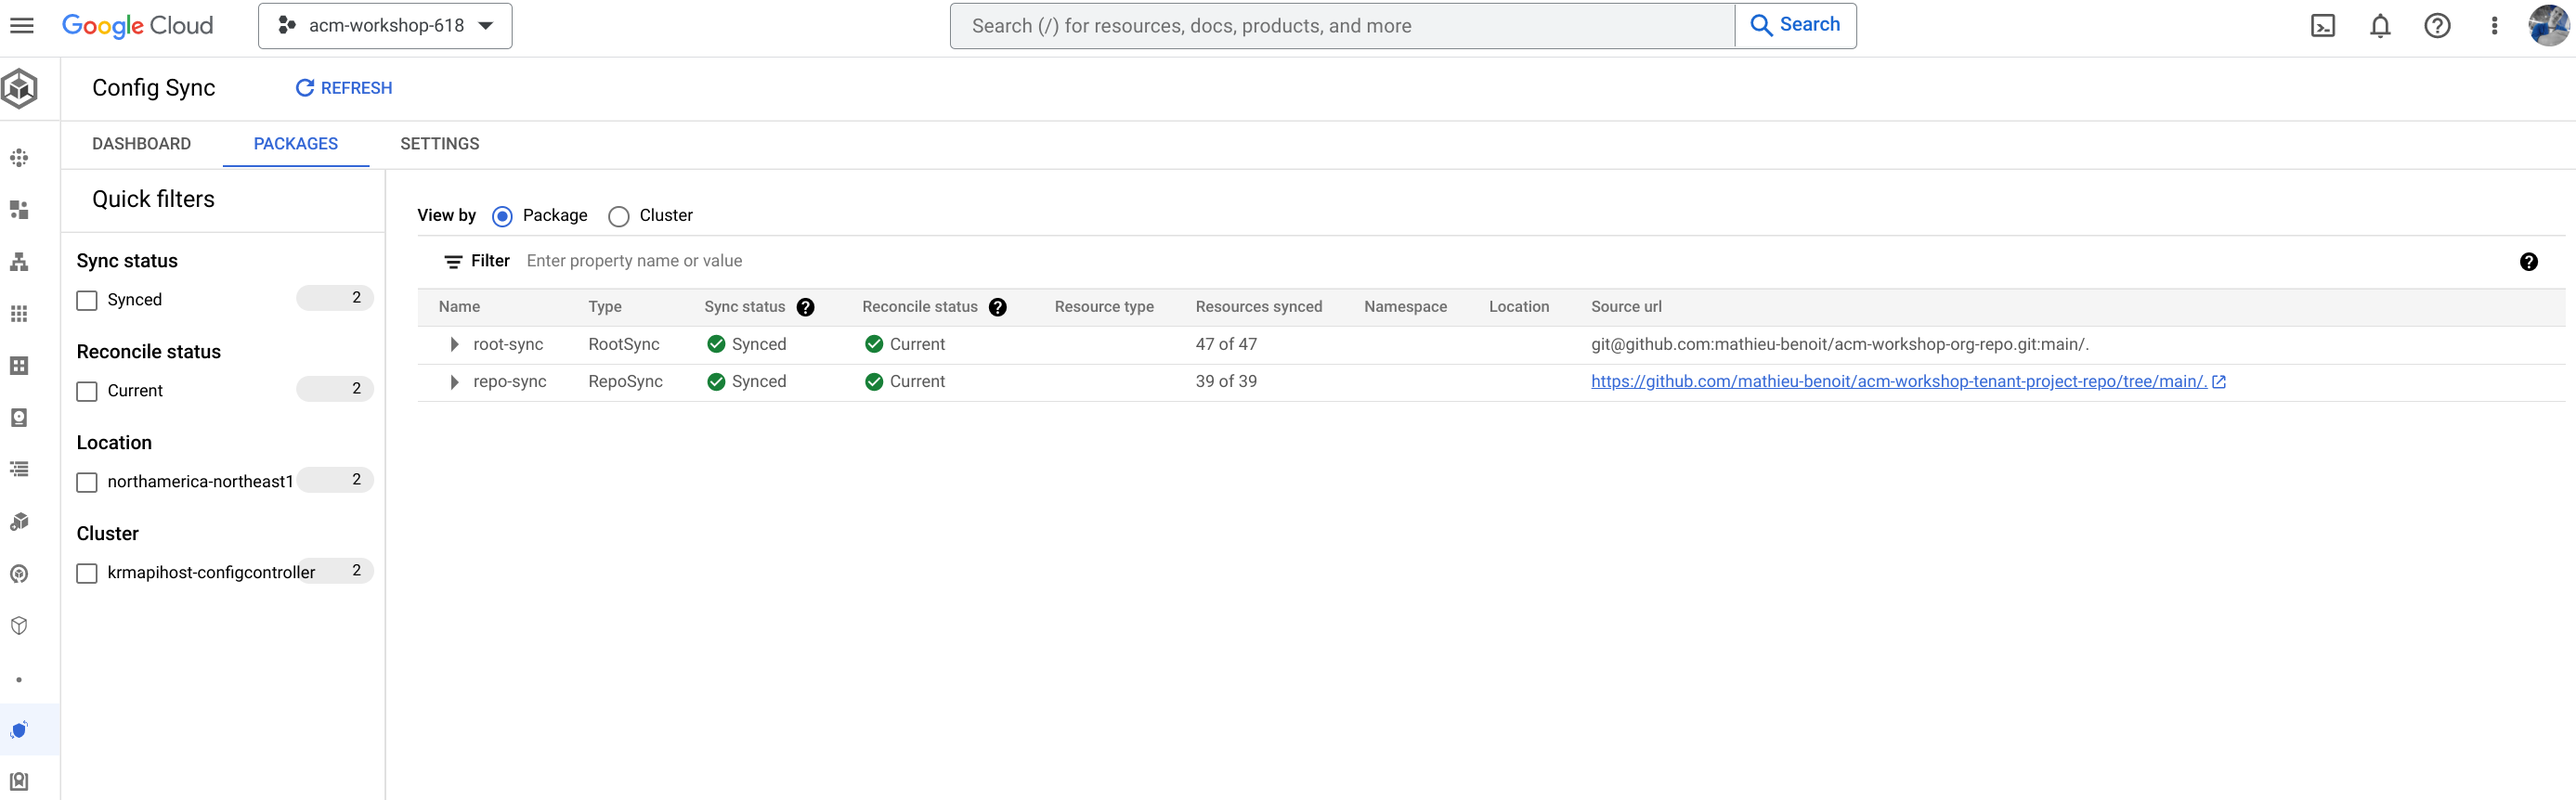
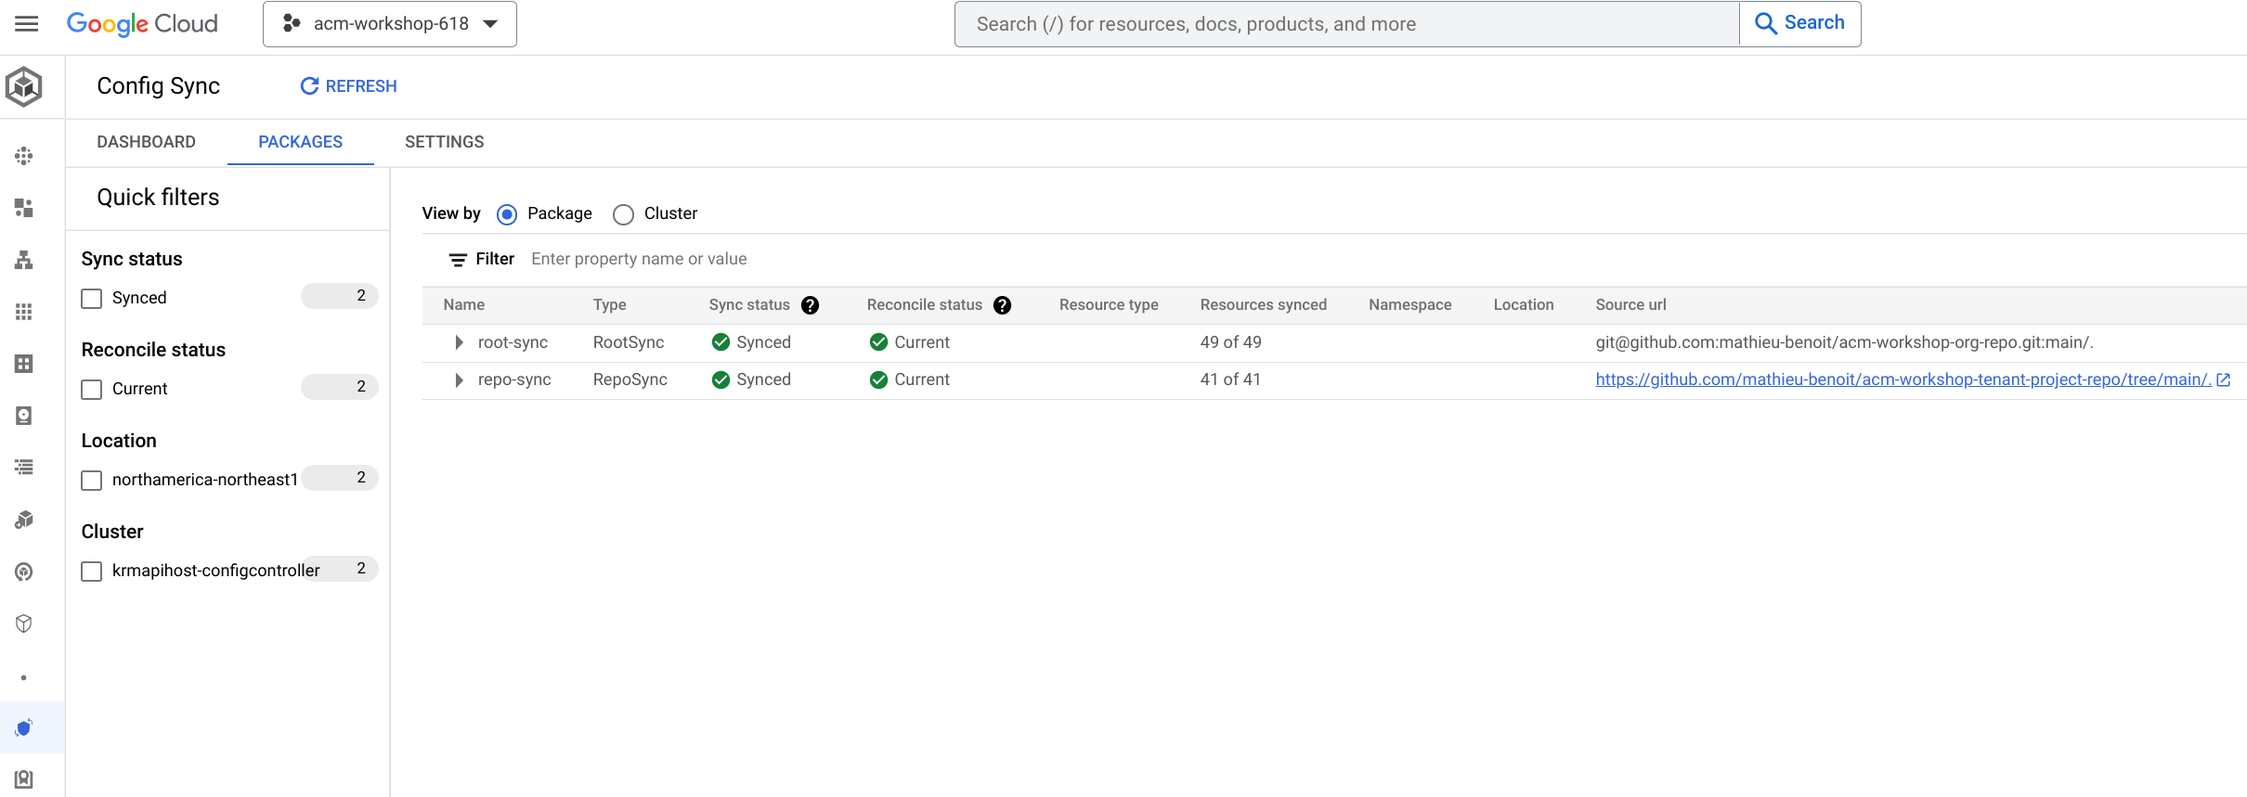
MonitoringNotificationChannel + MonitoringAlertPolicy

diff --git a/app/content/tenant-project/set-up-monitoring.md b/app/content/tenant-project/set-up-monitoring.md
@@ -1,0 +1,122 @@
+---
+title: "Set up Monitoring"
+weight: 5
+description: "Duration: 5 min | Persona: Platform Admin"
+tags: ["kcc", "monitoring", "platform-admin"]
+---
+![Platform Admin](/images/platform-admin.png)
+_{{< param description >}}_
+
+In this section, you will set up an monitoring notification channel with you email and a generic alert policy on URLs uptime checks for the Tenant project.
+
+Initialize variables:
+```Bash
+WORK_DIR=~/
+source ${WORK_DIR}acm-workshop-variables.sh
+```
+
+Define variables for this page:
+```Bash
+export NOTIFICATION_CHANNEL_EMAIL_ADDRESS=FIXME
+export NOTIFICATION_CHANNEL_NAME=monitoringnotificationchannel-email
+```
+{{% notice tip %}}
+Set your own email address for the `NOTIFICATION_CHANNEL_EMAIL_ADDRESS` variable, this will be used when defining the monitoring notification channel below.
+{{% /notice %}}
+
+## Define the monitoring notification channel with your email
+
+Define the [VPC](https://cloud.google.com/config-connector/docs/reference/resource-docs/monitoring/monitoringnotificationchannel):
+```Bash
+cat <<EOF > ${WORK_DIR}$TENANT_PROJECT_DIR_NAME/monitoring-notification-channel-email.yaml
+apiVersion: monitoring.cnrm.cloud.google.com/v1beta1
+kind: MonitoringNotificationChannel
+metadata:
+  annotations:
+    cnrm.cloud.google.com/project-id: ${TENANT_PROJECT_ID}
+  name: ${NOTIFICATION_CHANNEL_NAME}
+spec:
+  type: email
+  labels:
+    email_address: ${NOTIFICATION_CHANNEL_EMAIL_ADDRESS}
+  enabled: true
+EOF
+```
+
+## Define the Alert policy based on the uptime checks
+
+Define the [MonitoringAlertPolicy](https://cloud.google.com/config-connector/docs/reference/resource-docs/monitoring/monitoringalertpolicy):
+```Bash
+cat <<EOF > ${WORK_DIR}$TENANT_PROJECT_DIR_NAME/monitoring-alert-policy-uptime-checks.yaml
+apiVersion: monitoring.cnrm.cloud.google.com/v1beta1
+kind: MonitoringAlertPolicy
+metadata:
+  annotations:
+    cnrm.cloud.google.com/project-id: ${TENANT_PROJECT_ID}
+  name: monitoring-alert-policy-uptime-checks
+spec:
+  displayName: Failure of uptime checks
+  enabled: true
+  notificationChannels:
+    - name: ${NOTIFICATION_CHANNEL_NAME}
+  combiner: OR
+  conditions:
+  - displayName: Failure of uptime checks
+    conditionThreshold:
+      filter: metric.type="monitoring.googleapis.com/uptime_check/check_passed" AND resource.type="uptime_url"
+      aggregations:
+      - perSeriesAligner: ALIGN_NEXT_OLDER
+        alignmentPeriod: 1200s
+        crossSeriesReducer: REDUCE_COUNT_FALSE
+        groupByFields:
+        - resource.label.*
+      comparison: COMPARISON_GT
+      thresholdValue: 1
+      duration: 60s
+      trigger:
+        count: 1
+EOF
+```
+
+## Deploy Kubernetes manifests
+
+```Bash
+cd ${WORK_DIR}$TENANT_PROJECT_DIR_NAME/
+git add . && git commit -m "Monitoring features for Tenant project" && git push origin main
+```
+
+## Check deployments
+
+{{< mermaid >}}
+graph TD;
+  MonitoringAlertPolicy-.->Project
+  MonitoringNotificationChannel-.->Project
+  MonitoringAlertPolicy-->MonitoringNotificationChannel
+{{< /mermaid >}}
+
+List the Kubernetes resources managed by Config Sync in **Config Controller** for the **Tenant project configs** repository:
+{{< tabs groupId="cs-status-ui">}}
+{{% tab name="UI" %}}
+Run this command and click on this link:
+```Bash
+echo -e "https://console.cloud.google.com/kubernetes/config_management/packages?project=${HOST_PROJECT_ID}"
+```
+Wait until you see the `Sync status` column as `Synced` and the `Reconcile status` column as `Current`.
+{{% /tab %}}
+{{% tab name="gcloud" %}}
+Run this command:
+```Bash
+gcloud alpha anthos config sync repo describe \
+    --project $HOST_PROJECT_ID \
+    --managed-resources all \
+    --sync-name repo-sync \
+    --sync-namespace $TENANT_PROJECT_ID
+```
+Wait and re-run this command above until you see `"status": "SYNCED"`. All the `managed_resources` listed should have `STATUS: Current` too.
+{{% /tab %}}
+{{< /tabs >}}
+
+List the GitHub runs for the **Tenant project configs** repository:
+```Bash
+cd ${WORK_DIR}$TENANT_PROJECT_DIR_NAME && gh run list
+```

diff --git a/app/content/tenant-project/allow-monitoring.md b/app/content/tenant-project/allow-monitoring.md
@@ -7,7 +7,7 @@ tags: ["kcc", "monitoring", "org-admin"]
 ![Org Admin](/images/org-admin.png)
 _{{< param description >}}_
 
-In this section, you will grant the appropriate the IAM role for the Tenant project's service account. This will allow later this service account to provision some monitoring features.
+In this section, you will grant the appropriate the IAM roles for the Tenant project's service account. This will allow later this service account to provision some monitoring features.
 
 Initialize variables:
 ```Bash
@@ -15,7 +15,7 @@ WORK_DIR=~/
 source ${WORK_DIR}acm-workshop-variables.sh
 ```
 
-## Define role
+## Define roles
 
 Define the `monitoring.uptimeCheckConfigEditor` role with an [`IAMPolicyMember`](https://cloud.google.com/config-connector/docs/reference/resource-docs/iam/iampolicymember) for the Tenant project's service account:
 ```Bash
@@ -32,6 +32,48 @@ spec:
     serviceAccountRef:
       name: ${TENANT_PROJECT_ID}
   role: roles/monitoring.uptimeCheckConfigEditor
+  resourceRef:
+    kind: Project
+    external: projects/${TENANT_PROJECT_ID}
+EOF
+```
+
+Define the `monitoring.notificationChannelEditor` role with an [`IAMPolicyMember`](https://cloud.google.com/config-connector/docs/reference/resource-docs/iam/iampolicymember) for the Tenant project's service account:
+```Bash
+cat <<EOF > ${WORK_DIR}$HOST_PROJECT_DIR_NAME/projects/$TENANT_PROJECT_ID/notification-channel-editor.yaml
+apiVersion: iam.cnrm.cloud.google.com/v1beta1
+kind: IAMPolicyMember
+metadata:
+  name: notification-channel-editor-${TENANT_PROJECT_ID}
+  namespace: config-control
+  annotations:
+    config.kubernetes.io/depends-on: iam.cnrm.cloud.google.com/namespaces/config-control/IAMServiceAccount/${TENANT_PROJECT_ID},resourcemanager.cnrm.cloud.google.com/namespaces/config-control/Project/${TENANT_PROJECT_ID}
+spec:
+  memberFrom:
+    serviceAccountRef:
+      name: ${TENANT_PROJECT_ID}
+  role: roles/monitoring.notificationChannelEditor
+  resourceRef:
+    kind: Project
+    external: projects/${TENANT_PROJECT_ID}
+EOF
+```
+
+Define the `monitoring.alertPolicyEditor` role with an [`IAMPolicyMember`](https://cloud.google.com/config-connector/docs/reference/resource-docs/iam/iampolicymember) for the Tenant project's service account:
+```Bash
+cat <<EOF > ${WORK_DIR}$HOST_PROJECT_DIR_NAME/projects/$TENANT_PROJECT_ID/alert-policy-editor.yaml
+apiVersion: iam.cnrm.cloud.google.com/v1beta1
+kind: IAMPolicyMember
+metadata:
+  name: alert-policy-editor-${TENANT_PROJECT_ID}
+  namespace: config-control
+  annotations:
+    config.kubernetes.io/depends-on: iam.cnrm.cloud.google.com/namespaces/config-control/IAMServiceAccount/${TENANT_PROJECT_ID},resourcemanager.cnrm.cloud.google.com/namespaces/config-control/Project/${TENANT_PROJECT_ID}
+spec:
+  memberFrom:
+    serviceAccountRef:
+      name: ${TENANT_PROJECT_ID}
+  role: roles/monitoring.alertPolicyEditor
   resourceRef:
     kind: Project
     external: projects/${TENANT_PROJECT_ID}
@@ -85,6 +127,6 @@ gcloud projects get-iam-policy $TENANT_PROJECT_ID \
     --filter="bindings.members:${TENANT_PROJECT_SA_EMAIL}" \
     --flatten="bindings[].members" \
     --format="table(bindings.role)" \
-    | grep uptimeCheckConfigEditor
+    | grep -E 'uptimeCheckConfigEditor|notificationChannelEditor|alertPolicyEditor'
 ```
 Wait and re-run this command above until you see the resources created.

diff --git a/app/content/monitoring-and-audit/monitor-uptime-checks.md b/app/content/monitoring-and-audit/monitor-uptime-checks.md
@@ -25,3 +25,7 @@ echo -e "https://console.cloud.google.com/monitoring/uptime?project=${TENANT_PRO
 Then, you could select one of the uptime checks config to get more insights:
 
 ![Uptime checks for Bank of Anthos](/images/uptime-checks-bankofanthos.png)
+
+With the email notification on the uptime checks alerting we set earlier in this workshop, if there is any alert you will receive an email similar to this:
+
+![Uptime checks alert for Whereami](/images/uptime-checks-alert-whereami.png)

diff --git a/app/content/tenant-project/enforce-gcp-resources-policies.md b/app/content/tenant-project/enforce-gcp-resources-policies.md
@@ -98,6 +98,8 @@ spec:
     - IAMPartialPolicy
     - IAMPolicyMember
     - IAMServiceAccount
+    - MonitoringAlertPolicy
+    - MonitoringNotificationChannel
     - MonitoringUptimeCheckConfig
     - Project
     - RedisInstance
